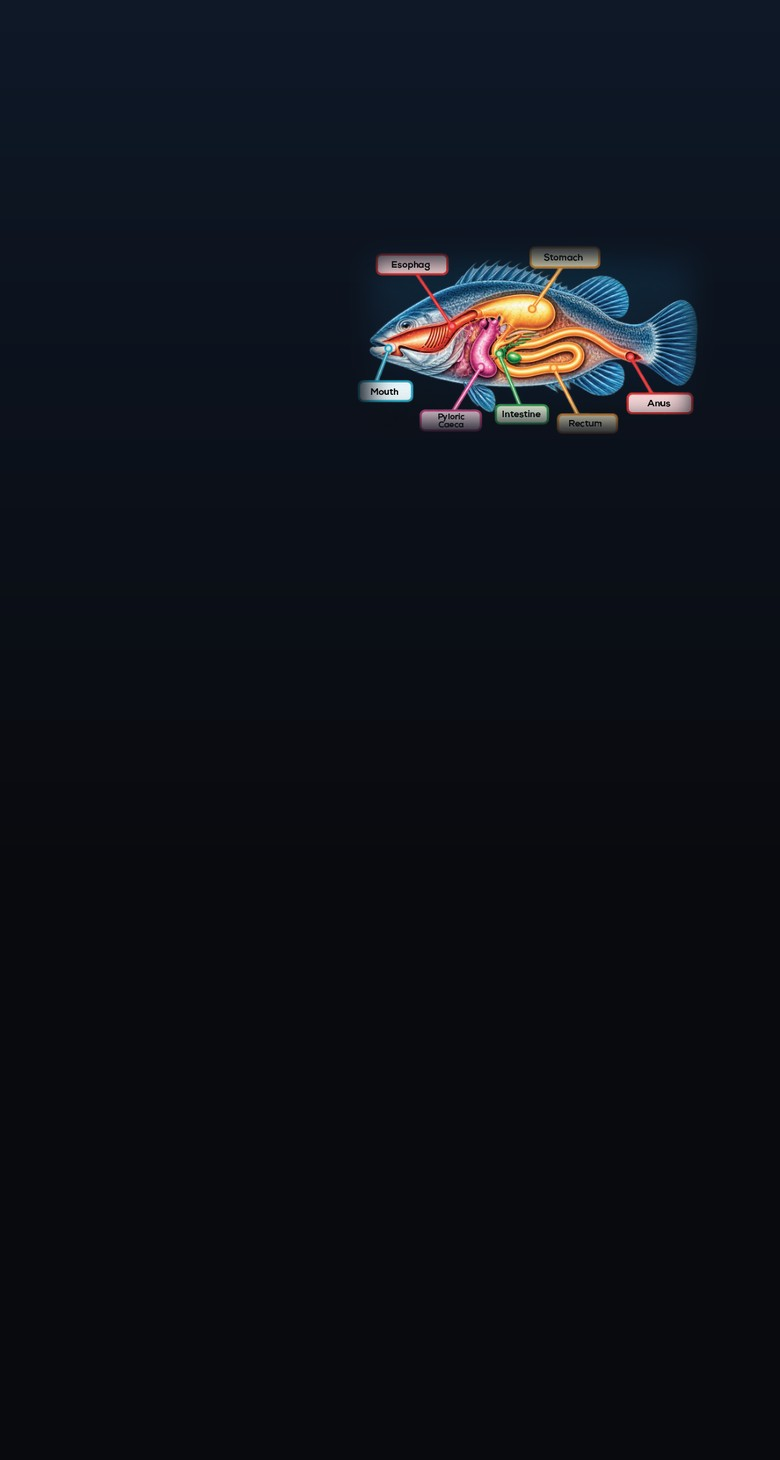
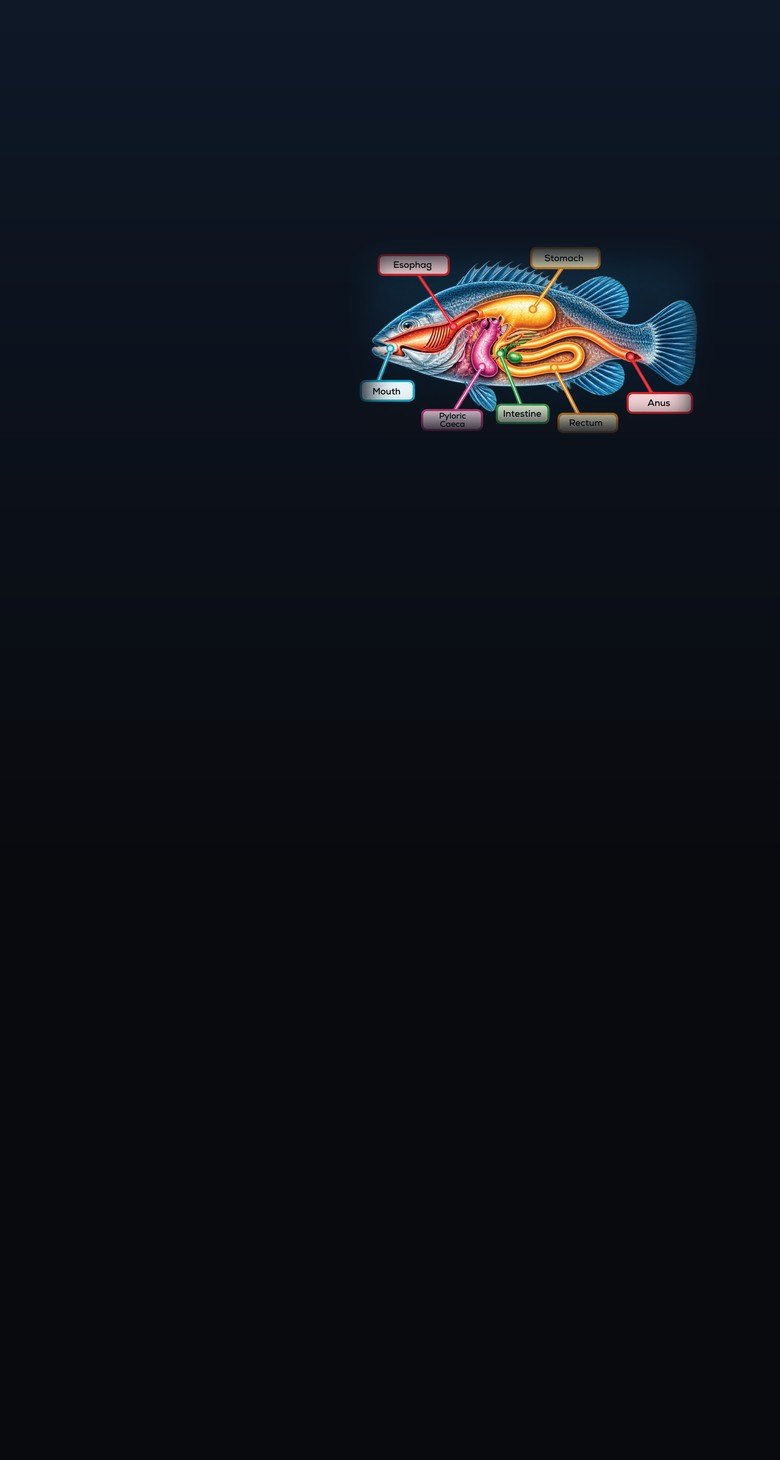
feat(blog): use the designer's high-resolution images for the protein post
Hero (8336px), brush border and FCR/SGR (6669px) replace the 846-1352px
originals. Same framing as before: the hero diagram is cropped clear of its
baked-in title and placed right-of-centre (2400px desktop, portrait phone
version); the two figures are resized to 2000px and their aspect set to the
new exact 16:9. The large source files are not committed.

Changed region(s): [[0.4615, 0.1541, 0.8, 0.3082]]

diff --git a/lib/articles.js b/lib/articles.js
@@ -106,7 +106,7 @@ export const ARTICLES = [
         type: "figure",
         src: "/protein-absorption-brush-border.jpg",
         alt: "Amino acid transporters and PEPT1 peptide transporter in the fish intestinal brush border",
-        aspect: "1352 / 755",
+        aspect: "16 / 9",
         caption: "Free amino acids cross the brush border through their own transporters; di- and tripeptides take a separate route through PEPT1.",
       },
       {
@@ -137,7 +137,7 @@ export const ARTICLES = [
         type: "figure",
         src: "/protein-absorption-fcr-sgr.jpg",
         alt: "Feed conversion ratio and specific growth rate explained for ornamental fish feed",
-        aspect: "1021 / 573",
+        aspect: "16 / 9",
       },
       {
         type: "table",
